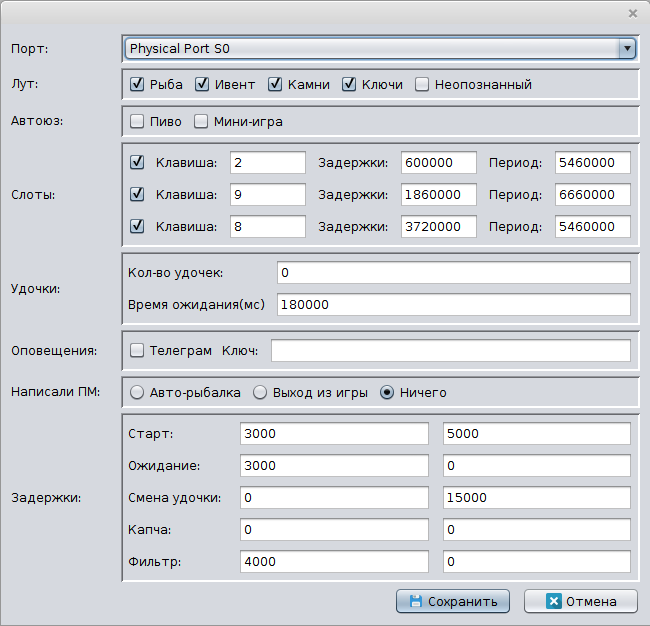
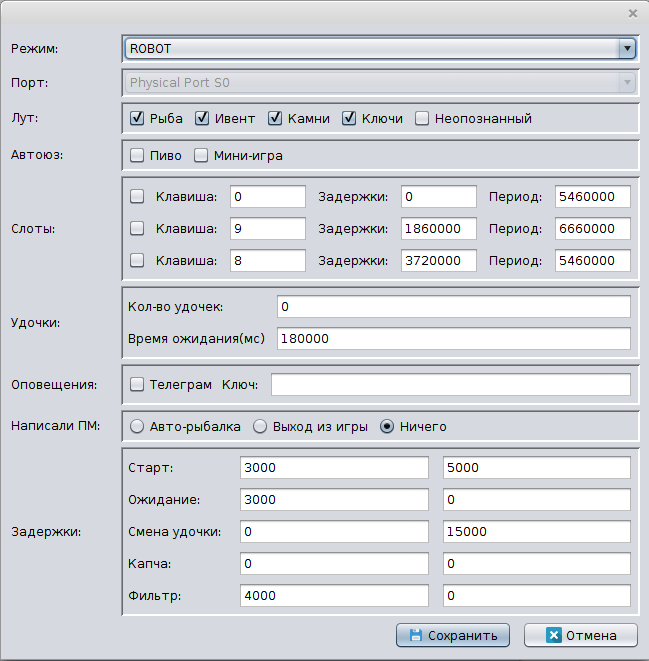
Fixed start/stop

diff --git a/src/main/java/ru/namibios/arduino/gui/controller/StartController.java b/src/main/java/ru/namibios/arduino/gui/controller/StartController.java
@@ -3,6 +3,7 @@ package ru.namibios.arduino.gui.controller;
 import ru.namibios.arduino.Transfer;
 import ru.namibios.arduino.config.Message;
 import ru.namibios.arduino.gui.view.RootView;
+import ru.namibios.arduino.model.state.FishBot;
 
 import javax.swing.*;
 import java.awt.event.ActionEvent;
@@ -27,16 +28,26 @@ public class StartController implements ActionListener {
 	public void actionPerformed(ActionEvent e) {
 		
 		boolean isInit = threadTransfer != null ;
-		boolean isRunned = isInit && threadTransfer.getFishBot().isRunned();
-		if (!isRunned) {
-		    threadTransfer.getFishBot().setRunned(true);
-            threadTransfer = new Transfer(threadTransfer.getFishBot());
-            threadTransfer.start();
 
-        } else {
-            showMessageDialog(Message.ALREADY_WORK);
+        if (isInit) {
+
+            FishBot fishBot = threadTransfer.getFishBot();
+
+            if (fishBot != null) {
+
+               if (!fishBot.isRunned()) {
+                   fishBot.setRunned(true);
+                   threadTransfer = new Transfer(fishBot);
+                   threadTransfer.start();
+
+                } else {
+                   showMessageDialog(Message.ALREADY_WORK);
+                }
+
+            } else {
+                threadTransfer.start();
+            }
+
         }
-		
 	}
-	
 }

diff --git a/src/main/java/ru/namibios/arduino/gui/view/SettingsView.java b/src/main/java/ru/namibios/arduino/gui/view/SettingsView.java
@@ -422,6 +422,10 @@ public class SettingsView extends JDialog {
         return rbNothing;
     }
 
+    public JComboBox getCbMode() {
+        return cbMode;
+    }
+
     public static void main(String[] args) {
 
         UIManager.getDefaults().addResourceBundle("locale");
@@ -702,7 +706,7 @@ public class SettingsView extends JDialog {
         mode.setLayout(new GridLayoutManager(1, 2, new Insets(0, 0, 0, 0), -1, -1));
         settings.add(mode, new GridConstraints(0, 0, 1, 1, GridConstraints.ANCHOR_CENTER, GridConstraints.FILL_BOTH, GridConstraints.SIZEPOLICY_CAN_SHRINK | GridConstraints.SIZEPOLICY_CAN_GROW, GridConstraints.SIZEPOLICY_CAN_SHRINK | GridConstraints.SIZEPOLICY_CAN_GROW, null, null, null, 0, false));
         final JLabel label25 = new JLabel();
-        label25.setText("Режим:");
+        this.$$$loadLabelText$$$(label25, ResourceBundle.getBundle("locale").getString("preference.label.inputmode"));
         mode.add(label25, new GridConstraints(0, 0, 1, 1, GridConstraints.ANCHOR_WEST, GridConstraints.FILL_NONE, GridConstraints.SIZEPOLICY_FIXED, GridConstraints.SIZEPOLICY_FIXED, null, new Dimension(100, -1), null, 0, false));
         modeContent = new JPanel();
         modeContent.setLayout(new GridLayoutManager(1, 1, new Insets(0, 0, 0, 0), -1, -1));

diff --git a/src/main/java/ru/namibios/arduino/gui/controller/SaveController.java b/src/main/java/ru/namibios/arduino/gui/controller/SaveController.java
@@ -19,7 +19,8 @@ public class SaveController implements ActionListener{
 	@Override
 	public void actionPerformed(ActionEvent e) {
 
-		Application.getInstance().setProperty("bot.port", getPortName(view.getCbPort().getSelectedItem().toString()));
+		Application.getInstance().setProperty("bot.port", getPortName(String.valueOf(view.getCbPort().getSelectedItem())));
+		Application.getInstance().setProperty("bot.input.mode", String.valueOf(view.getCbMode().getSelectedItem()));
 
 		Application.getInstance().setProperty("bot.loot.key",   String.valueOf(view.getCbKey().isSelected()));
 		Application.getInstance().setProperty("bot.loot.rock",  String.valueOf(view.getCbRock().isSelected()));
@@ -60,10 +61,10 @@ public class SaveController implements ActionListener{
 		Application.getInstance().setProperty("bot.delay.filterloot.after", view.getTfAfterFilterLoot().getText().trim());
 		
 		Application.record();
-		
+
 		view.dispose();
 	}
-	
+
 	private String getPortName(String descriptionPort){
 		return descriptionPort.indexOf(")") != -1 
 				? descriptionPort.substring(descriptionPort.indexOf("(") + 1, descriptionPort.indexOf(")"))

diff --git a/src/main/java/ru/namibios/arduino/gui/controller/StopController.java b/src/main/java/ru/namibios/arduino/gui/controller/StopController.java
@@ -1,11 +1,14 @@
 package ru.namibios.arduino.gui.controller;
 
+import org.apache.log4j.Logger;
+import ru.namibios.arduino.Transfer;
+
 import java.awt.event.ActionEvent;
 import java.awt.event.ActionListener;
 
-import ru.namibios.arduino.Transfer;
-
 public class StopController implements ActionListener{
+
+	private static final Logger LOG = Logger.getLogger(StopController.class);
 
 	private Transfer threadTransfer;
 
@@ -16,6 +19,7 @@ public class StopController implements ActionListener{
 	@Override
 	public void actionPerformed(ActionEvent e) {
 		if(threadTransfer != null)
+			LOG.info("Thread stop");
 			threadTransfer.getFishBot().setRunned(false);
 	}
 	

diff --git a/src/main/java/ru/namibios/arduino/model/state/FishBot.java b/src/main/java/ru/namibios/arduino/model/state/FishBot.java
@@ -33,7 +33,7 @@ public class FishBot {
 
 	private InputService inputService;
 
-	public FishBot() {
+    public FishBot(boolean start) {
 
         List<Slot> slots = Arrays.asList(
                 new Slot(Application.getInstance().SLOT_ONE().isActive(),
@@ -67,7 +67,7 @@ public class FishBot {
 				throw new IllegalArgumentException("Unknown input mode. Check settings.");
 		}
 
-		this.isRunned = false;
+		this.isRunned = start;
 		this.isPmDetected = false;
 
 		this.state = new UseSlotState(this);

diff --git a/src/main/java/ru/namibios/arduino/Transfer.java b/src/main/java/ru/namibios/arduino/Transfer.java
@@ -12,9 +12,7 @@ public class Transfer extends Thread{
 
 	private FishBot fishBot;
 	
-	public Transfer() {
-		this.fishBot = new FishBot();
-	}
+	public Transfer() {}
 
 	public Transfer(FishBot fishBot) {
 		this.fishBot = fishBot;
@@ -41,6 +39,10 @@ public class Transfer extends Thread{
 		if (windowGame == null) {
 			LOG.info("The game is not running");
 			return;
+		}
+
+		if (fishBot == null) {
+			fishBot = new FishBot(true);
 		}
 
 		DelayUtils.delay(1000);

diff --git a/src/main/java/ru/namibios/arduino/model/state/service/input/ArduinoService.java b/src/main/java/ru/namibios/arduino/model/state/service/input/ArduinoService.java
@@ -25,7 +25,7 @@ public class ArduinoService implements InputService{
         if (serialPort.openPort()) {
             LOG.info("Port is open..");
         } else {
-            LOG.error("Port is closed. Check you port in settings or change mode work on application.properties.");
+            LOG.info("Port is closed. Check your port in settings or change the mode work");
             System.exit(-1);
         }
 
